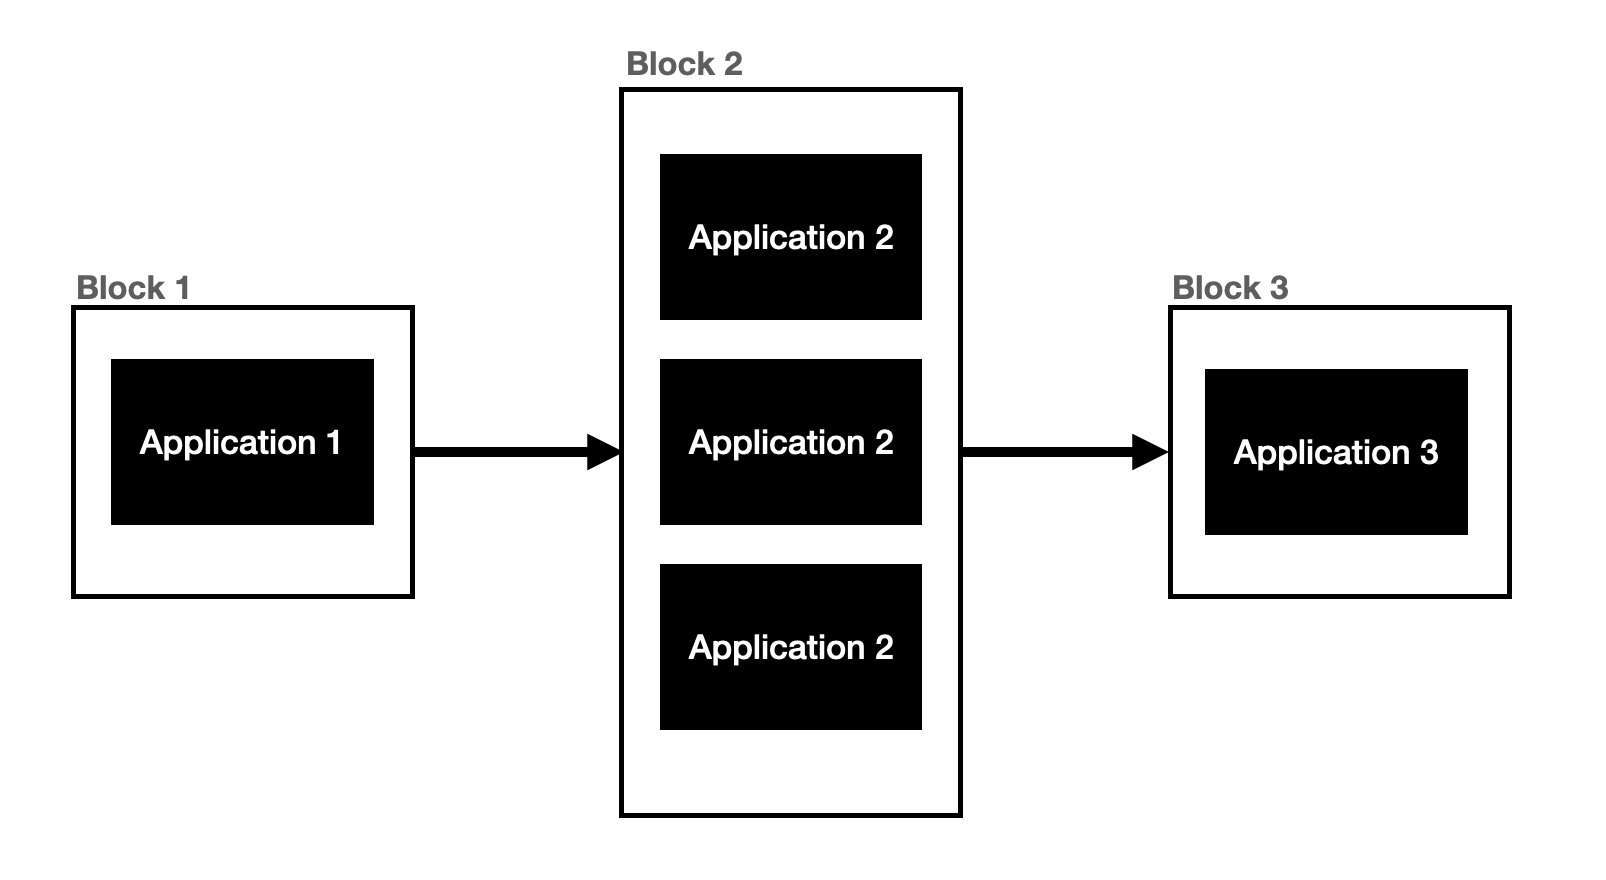
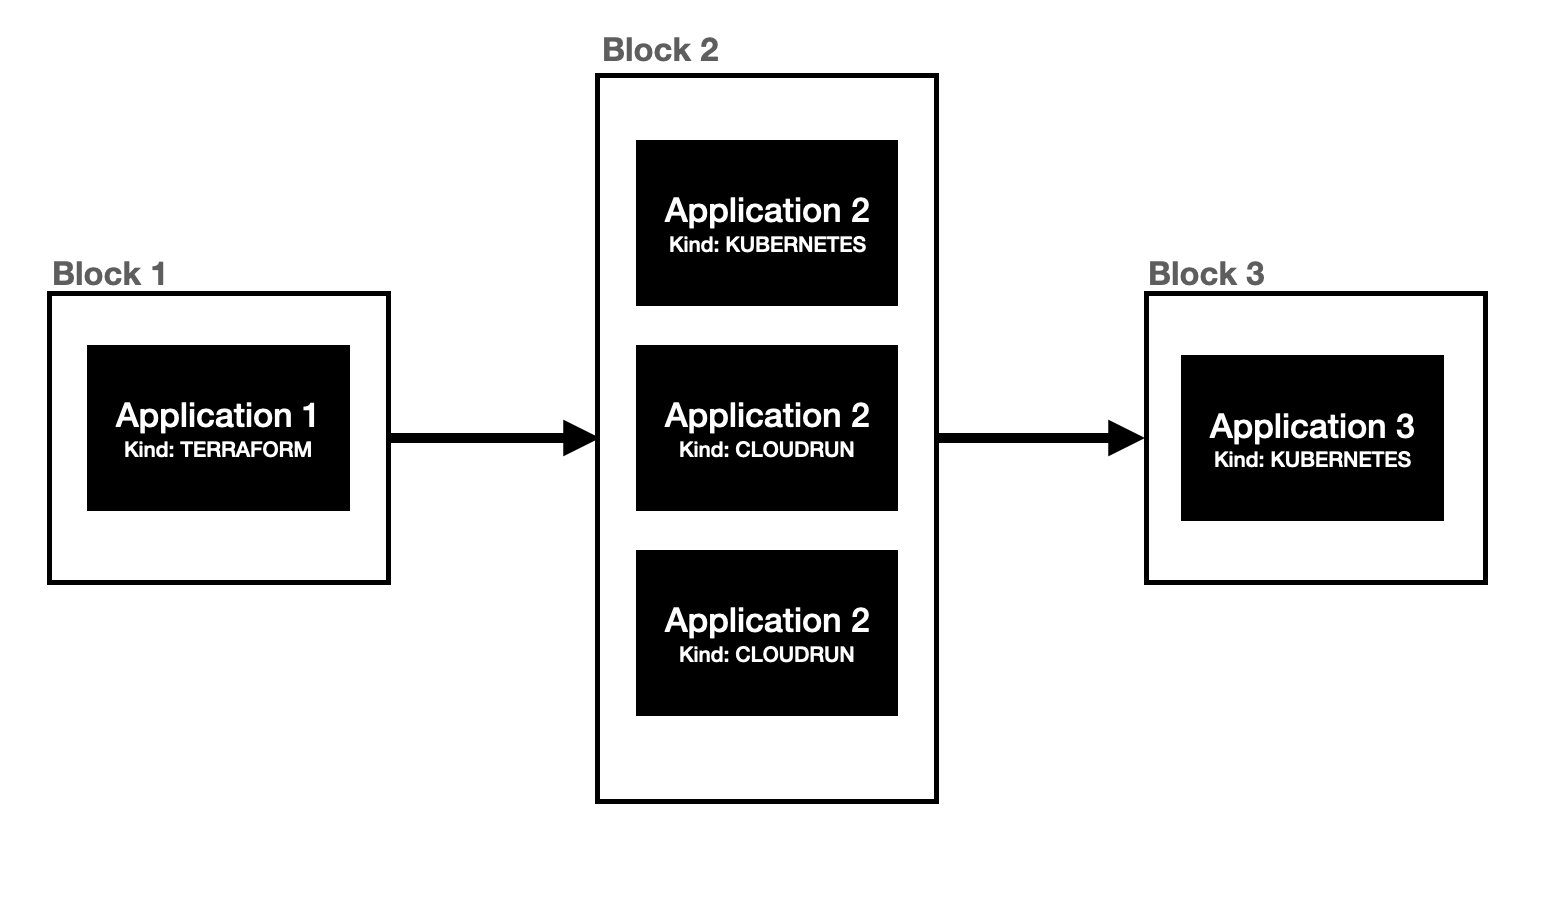
Update

Changed region(s): [[0.3721, 0.0307, 0.9612, 0.9511], [0.031, 0.2761, 0.4031, 0.7057]]

diff --git a/docs/content/en/docs-dev/user-guide/configuring-deployment/deployment-chain.md b/docs/content/en/docs-dev/user-guide/configuring-deployment/deployment-chain.md
@@ -16,7 +16,7 @@ A canonical configuration look as below:
 
 ```yaml
 apiVersion: pipecd.dev/v1beta1
-kind: Kubernetes
+kind: TerraformApp
 spec:
   input:
     ...
@@ -25,33 +25,40 @@ spec:
   postSync:
     chain:
       applications:
+        # Find all applications with name `Application 2` and trigger them.
         - name: Application 2
+        # Fill all applications with name `Application 3` of kind `KUBERNETES`
+        # and trigger them.
         - name: Application 3
+          kind: KUBERNETES
 ```
 
 As a result, the above configuration will be used to create a deployment chain like the below figure
 
 ![](/images/deployment-chain-figure.png)
 
-In the context of the deployment chain in PipeCD, a chain is made up of many `blocks`, and each block contains multiple `nodes` which is the reference to a deployment. The first block in the chain always contains only one node, which is the deployment that triggers the whole chain. Other blocks of the chain are built using filters which are configurable via `postSync.chain.applications` field. As for the above example, the second block `Block 2` contains 3 different nodes, which are 3 different PipeCD applications with the same name `Application 2`.
-
-See [Examples](/docs/examples/#deployment-chain) for more specific.
+In the context of the deployment chain in PipeCD, a chain is made up of many `blocks`, and each block contains multiple `nodes` which is the reference to a deployment. The first block in the chain always contains only one node, which is the deployment that triggers the whole chain. Other blocks of the chain are built using filters which are configurable via `postSync.chain.applications` section. As for the above example, the second block `Block 2` contains 3 different nodes, which are 3 different PipeCD applications with the same name `Application 2`.
 
 __Tip__:
 
-If you followed all the configuration references and built your deployment chain configuration, but some deployments in your defined chain are not triggered as you want, please re-check those deployments [`trigger configuration`](/docs/user-guide/triggering-a-deployment/#trigger-configuration). The `onChain` trigger is __disabled by default__; you need to enable that configuration to enable your deployment to be triggered as a node in the deployment chain.
+1. If you followed all the configuration references and built your deployment chain configuration, but some deployments in your defined chain are not triggered as you want, please re-check those deployments [`trigger configuration`](/docs/user-guide/triggering-a-deployment/#trigger-configuration). The `onChain` trigger is __disabled by default__; you need to enable that configuration to enable your deployment to be triggered as a node in the deployment chain.
+2. Values configured under `postSync.chain.applications` - we call it __Application matcher__'s values are merged using `AND` operator. Currently, only `name` and `kind` are supported, but `labels` will also be supported soon.
+
+See [Examples](/docs/examples/#deployment-chain) for more specific.
 
 ## Deployment chain characteristic
 
 Something you need to care about while creating your deployment chain with PipeCD
 
-1. The deployment chain block is run in sequence, one by one. But all nodes in the same block are run in parallel, you should ensure that all deployments in the same block do not depend on each other.
-2. Once a block in the chain is finished with `FAILURE` or `CANCELLED` status, the chain will be set to fail, and all blocks after that finished block will be set to `CANCELLED` status.
-3. Once a node in a block is finished with `FAILURE` or `CANCELLED` status, the block will be set to fail, and all other nodes that are not yet finished will be set to `CANCELLED` status (those nodes will be rolled back if they're in the middle of deploying process).
+1. The deployment chain blocks are run in sequence, one by one. But all nodes in the same block are run in parallel, you should ensure that all nodes(deployments) in the same block do not depend on each other.
+2. Once a block in the chain has finished with `FAILURE` or `CANCELLED` status, the chain will be set to fail, and all blocks after that finished block will be set to `CANCELLED` status.
+3. Once a node in a block has finished with `FAILURE` or `CANCELLED` status, the containing block will be set to fail, and all other nodes which have not yet finished will be set to `CANCELLED` status (those nodes will be rolled back if they're in the middle of its deploying process).
 
 ## Console view
 
-TBD
+![](/images/deployment-chain-console.png)
+
+The UI for this deployment chain feature currently is under deployment, we can only __view deployments in chain one by one__ on the deployments page and deployment detail page as usual.
 
 ## Reference
 
